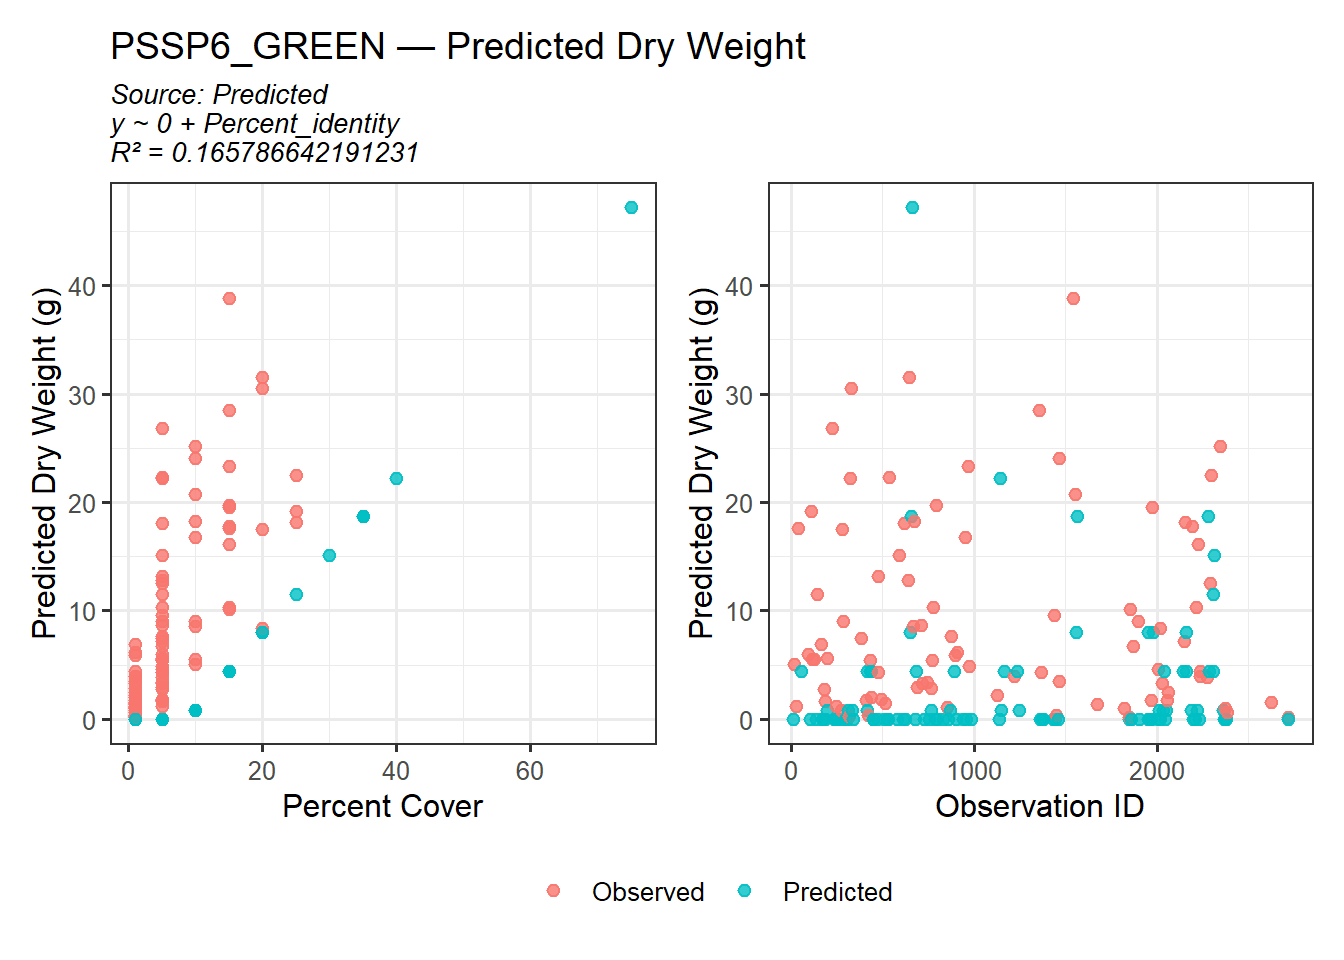
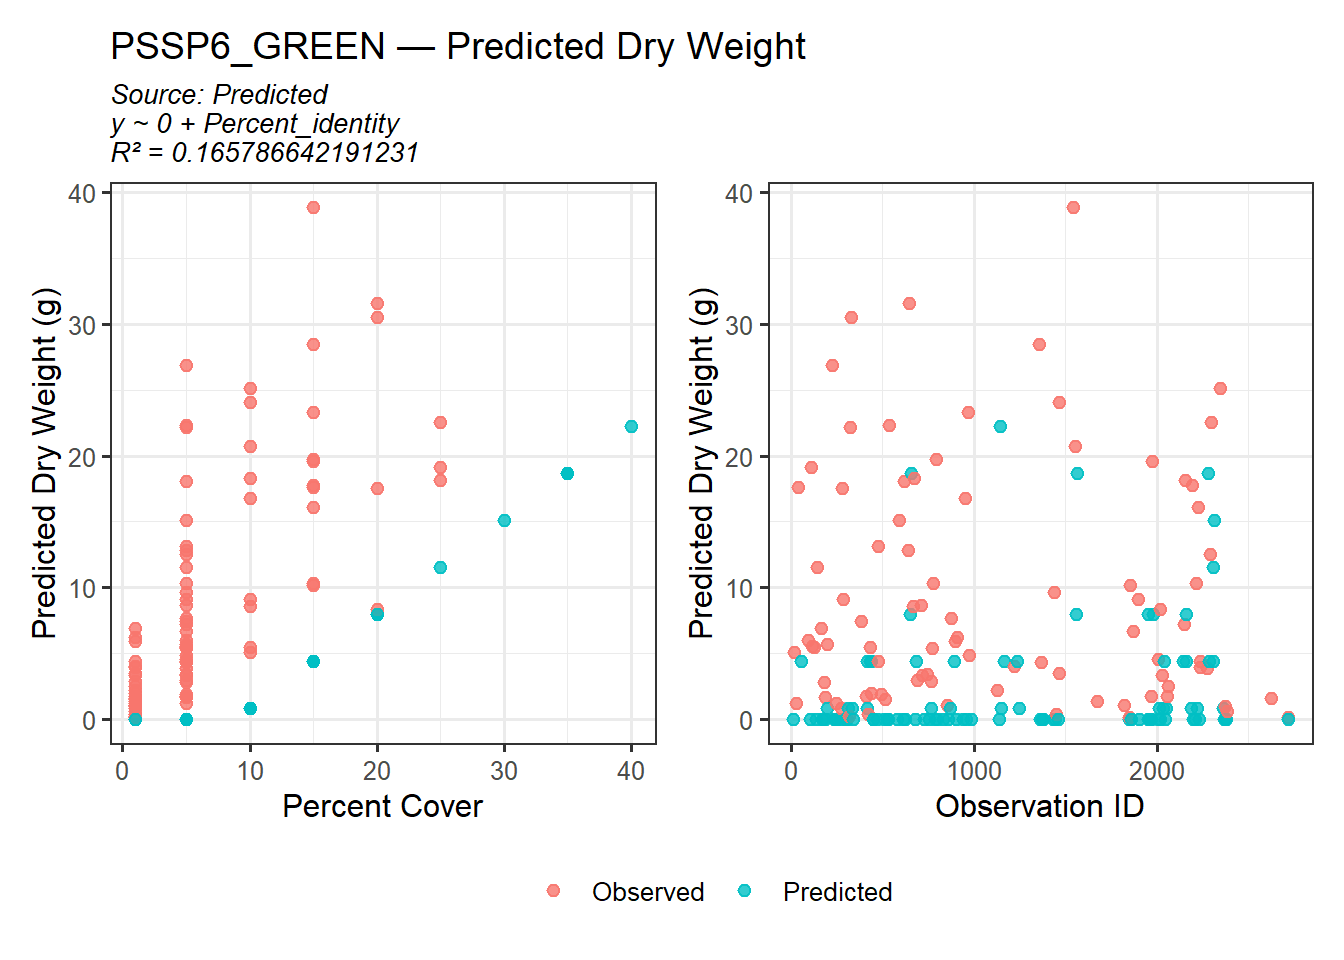
added comments

diff --git a/docs/posts/post-with-code/edited.biomass.predictions.html b/docs/posts/post-with-code/edited.biomass.predictions.html
@@ -216,6 +216,7 @@ pre > code.sourceCode > span > a:first-child::before { text-decoration: underlin
 </div>
 <section id="species" class="level2">
 <h2 class="anchored" data-anchor-id="species">Species</h2>
+<p>ERST4_ENTIRE, POSE_BROWN, PSSP6_GREEN? look better, the rest look the same or worse</p>
 <div class="cell">
 <details class="code-fold">
 <summary>Code</summary>
@@ -228,67 +229,68 @@ pre > code.sourceCode > span > a:first-child::before { text-decoration: underlin
 <span id="cb2-7"><a href="#cb2-7" aria-hidden="true" tabindex="-1"></a><span class="co"># 2. Keep Spp predictions and matching Observed rows</span></span>
 <span id="cb2-8"><a href="#cb2-8" aria-hidden="true" tabindex="-1"></a>spp_predictions_filtered <span class="ot">&lt;-</span> spp <span class="sc">%&gt;%</span></span>
 <span id="cb2-9"><a href="#cb2-9" aria-hidden="true" tabindex="-1"></a>  <span class="fu">mutate</span>(<span class="at">pred_source =</span> <span class="fu">ifelse</span>(pred_source <span class="sc">==</span> <span class="st">"Model_Spp"</span>, <span class="st">"Predicted"</span>, pred_source)) <span class="sc">%&gt;%</span></span>
-<span id="cb2-10"><a href="#cb2-10" aria-hidden="true" tabindex="-1"></a>  <span class="fu">arrange</span>(Spp)</span>
-<span id="cb2-11"><a href="#cb2-11" aria-hidden="true" tabindex="-1"></a></span>
-<span id="cb2-12"><a href="#cb2-12" aria-hidden="true" tabindex="-1"></a>plot_species_predictions <span class="ot">&lt;-</span> <span class="cf">function</span>(species_name, predictions, <span class="at">save_plots =</span> <span class="cn">FALSE</span>) {</span>
-<span id="cb2-13"><a href="#cb2-13" aria-hidden="true" tabindex="-1"></a>  </span>
-<span id="cb2-14"><a href="#cb2-14" aria-hidden="true" tabindex="-1"></a>  <span class="co"># Filter for this species</span></span>
-<span id="cb2-15"><a href="#cb2-15" aria-hidden="true" tabindex="-1"></a>  dat <span class="ot">&lt;-</span> predictions <span class="sc">%&gt;%</span> <span class="fu">filter</span>(Spp <span class="sc">==</span> species_name)</span>
-<span id="cb2-16"><a href="#cb2-16" aria-hidden="true" tabindex="-1"></a>  </span>
-<span id="cb2-17"><a href="#cb2-17" aria-hidden="true" tabindex="-1"></a>  <span class="co"># Prepare annotation text</span></span>
-<span id="cb2-18"><a href="#cb2-18" aria-hidden="true" tabindex="-1"></a>  formula_text <span class="ot">&lt;-</span> <span class="fu">unique</span>(dat<span class="sc">$</span>formula[dat<span class="sc">$</span>pred_source <span class="sc">==</span> <span class="st">"Predicted"</span>])</span>
-<span id="cb2-19"><a href="#cb2-19" aria-hidden="true" tabindex="-1"></a>  r2_text      <span class="ot">&lt;-</span> <span class="fu">unique</span>(dat<span class="sc">$</span>R2[dat<span class="sc">$</span>pred_source <span class="sc">==</span> <span class="st">"Predicted"</span>])</span>
-<span id="cb2-20"><a href="#cb2-20" aria-hidden="true" tabindex="-1"></a>  pred_source_text <span class="ot">&lt;-</span> <span class="fu">unique</span>(dat<span class="sc">$</span>pred_source[dat<span class="sc">$</span>pred_source <span class="sc">==</span> <span class="st">"Predicted"</span>])</span>
-<span id="cb2-21"><a href="#cb2-21" aria-hidden="true" tabindex="-1"></a>  </span>
-<span id="cb2-22"><a href="#cb2-22" aria-hidden="true" tabindex="-1"></a>  annotation_text <span class="ot">&lt;-</span> <span class="cf">if</span> (<span class="fu">length</span>(formula_text) <span class="sc">&gt;</span> <span class="dv">0</span>) {</span>
-<span id="cb2-23"><a href="#cb2-23" aria-hidden="true" tabindex="-1"></a>    <span class="fu">glue</span>(<span class="st">"Source: {pred_source_text}</span><span class="sc">\n</span><span class="st">{formula_text}</span><span class="sc">\n</span><span class="st">R² = {r2_text}"</span>)</span>
-<span id="cb2-24"><a href="#cb2-24" aria-hidden="true" tabindex="-1"></a>  } <span class="cf">else</span> {</span>
-<span id="cb2-25"><a href="#cb2-25" aria-hidden="true" tabindex="-1"></a>    <span class="st">""</span></span>
-<span id="cb2-26"><a href="#cb2-26" aria-hidden="true" tabindex="-1"></a>  }</span>
-<span id="cb2-27"><a href="#cb2-27" aria-hidden="true" tabindex="-1"></a>  </span>
-<span id="cb2-28"><a href="#cb2-28" aria-hidden="true" tabindex="-1"></a>  <span class="co"># Base theme</span></span>
-<span id="cb2-29"><a href="#cb2-29" aria-hidden="true" tabindex="-1"></a>  base_theme <span class="ot">&lt;-</span> <span class="fu">theme_bw</span>(<span class="at">base_size =</span> <span class="dv">12</span>) <span class="sc">+</span></span>
-<span id="cb2-30"><a href="#cb2-30" aria-hidden="true" tabindex="-1"></a>    <span class="fu">theme</span>(</span>
-<span id="cb2-31"><a href="#cb2-31" aria-hidden="true" tabindex="-1"></a>      <span class="at">legend.title =</span> <span class="fu">element_blank</span>(),</span>
-<span id="cb2-32"><a href="#cb2-32" aria-hidden="true" tabindex="-1"></a>      <span class="at">plot.subtitle =</span> <span class="fu">element_text</span>(<span class="at">size =</span> <span class="dv">10</span>, <span class="at">face =</span> <span class="st">"italic"</span>)</span>
-<span id="cb2-33"><a href="#cb2-33" aria-hidden="true" tabindex="-1"></a>    )</span>
-<span id="cb2-34"><a href="#cb2-34" aria-hidden="true" tabindex="-1"></a>  </span>
-<span id="cb2-35"><a href="#cb2-35" aria-hidden="true" tabindex="-1"></a>  <span class="co"># Plot 1: pred_DryWeight vs Percent</span></span>
-<span id="cb2-36"><a href="#cb2-36" aria-hidden="true" tabindex="-1"></a>  p1 <span class="ot">&lt;-</span> <span class="fu">ggplot</span>(dat, <span class="fu">aes</span>(<span class="at">x =</span> Percent, <span class="at">y =</span> pred_DryWeight, <span class="at">color =</span> pred_source)) <span class="sc">+</span></span>
-<span id="cb2-37"><a href="#cb2-37" aria-hidden="true" tabindex="-1"></a>    <span class="fu">geom_point</span>(<span class="at">size =</span> <span class="dv">2</span>, <span class="at">alpha =</span> <span class="fl">0.8</span>) <span class="sc">+</span></span>
-<span id="cb2-38"><a href="#cb2-38" aria-hidden="true" tabindex="-1"></a>    <span class="fu">labs</span>(</span>
-<span id="cb2-39"><a href="#cb2-39" aria-hidden="true" tabindex="-1"></a>      <span class="at">title =</span> <span class="fu">glue</span>(<span class="st">"{species_name} — Predicted Dry Weight"</span>),</span>
-<span id="cb2-40"><a href="#cb2-40" aria-hidden="true" tabindex="-1"></a>      <span class="at">subtitle =</span> annotation_text,</span>
-<span id="cb2-41"><a href="#cb2-41" aria-hidden="true" tabindex="-1"></a>      <span class="at">x =</span> <span class="st">"Percent Cover"</span>,</span>
-<span id="cb2-42"><a href="#cb2-42" aria-hidden="true" tabindex="-1"></a>      <span class="at">y =</span> <span class="st">"Predicted Dry Weight (g)"</span></span>
-<span id="cb2-43"><a href="#cb2-43" aria-hidden="true" tabindex="-1"></a>    ) <span class="sc">+</span></span>
-<span id="cb2-44"><a href="#cb2-44" aria-hidden="true" tabindex="-1"></a>    base_theme</span>
-<span id="cb2-45"><a href="#cb2-45" aria-hidden="true" tabindex="-1"></a>  </span>
-<span id="cb2-46"><a href="#cb2-46" aria-hidden="true" tabindex="-1"></a>  <span class="co"># Plot 2: pred_DryWeight vs ID</span></span>
-<span id="cb2-47"><a href="#cb2-47" aria-hidden="true" tabindex="-1"></a>  p2 <span class="ot">&lt;-</span> <span class="fu">ggplot</span>(dat, <span class="fu">aes</span>(<span class="at">x =</span> ID, <span class="at">y =</span> pred_DryWeight, <span class="at">color =</span> pred_source)) <span class="sc">+</span></span>
-<span id="cb2-48"><a href="#cb2-48" aria-hidden="true" tabindex="-1"></a>    <span class="fu">geom_point</span>(<span class="at">size =</span> <span class="dv">2</span>, <span class="at">alpha =</span> <span class="fl">0.8</span>) <span class="sc">+</span></span>
-<span id="cb2-49"><a href="#cb2-49" aria-hidden="true" tabindex="-1"></a>    <span class="fu">labs</span>(</span>
-<span id="cb2-50"><a href="#cb2-50" aria-hidden="true" tabindex="-1"></a>      <span class="at">x =</span> <span class="st">"Observation ID"</span>,</span>
-<span id="cb2-51"><a href="#cb2-51" aria-hidden="true" tabindex="-1"></a>      <span class="at">y =</span> <span class="st">"Predicted Dry Weight (g)"</span></span>
-<span id="cb2-52"><a href="#cb2-52" aria-hidden="true" tabindex="-1"></a>    ) <span class="sc">+</span></span>
-<span id="cb2-53"><a href="#cb2-53" aria-hidden="true" tabindex="-1"></a>    base_theme</span>
-<span id="cb2-54"><a href="#cb2-54" aria-hidden="true" tabindex="-1"></a>  </span>
-<span id="cb2-55"><a href="#cb2-55" aria-hidden="true" tabindex="-1"></a>  <span class="co"># Combine plots</span></span>
-<span id="cb2-56"><a href="#cb2-56" aria-hidden="true" tabindex="-1"></a>  combined_plot <span class="ot">&lt;-</span> p1 <span class="sc">+</span> p2 <span class="sc">+</span> </span>
-<span id="cb2-57"><a href="#cb2-57" aria-hidden="true" tabindex="-1"></a>    <span class="fu">plot_layout</span>(<span class="at">guides =</span> <span class="st">"collect"</span>) <span class="sc">&amp;</span> </span>
-<span id="cb2-58"><a href="#cb2-58" aria-hidden="true" tabindex="-1"></a>    <span class="fu">theme</span>(<span class="at">legend.position =</span> <span class="st">"bottom"</span>, <span class="at">legend.direction =</span> <span class="st">"horizontal"</span>)</span>
-<span id="cb2-59"><a href="#cb2-59" aria-hidden="true" tabindex="-1"></a>  </span>
-<span id="cb2-60"><a href="#cb2-60" aria-hidden="true" tabindex="-1"></a>  <span class="co"># Save or display</span></span>
-<span id="cb2-61"><a href="#cb2-61" aria-hidden="true" tabindex="-1"></a>  <span class="cf">if</span> (save_plots) {</span>
-<span id="cb2-62"><a href="#cb2-62" aria-hidden="true" tabindex="-1"></a>    <span class="fu">ggsave</span>(<span class="fu">glue</span>(<span class="st">"plots/{species_name}_pred_plot.png"</span>),</span>
-<span id="cb2-63"><a href="#cb2-63" aria-hidden="true" tabindex="-1"></a>           combined_plot, <span class="at">width =</span> <span class="dv">10</span>, <span class="at">height =</span> <span class="dv">5</span>, <span class="at">dpi =</span> <span class="dv">300</span>)</span>
-<span id="cb2-64"><a href="#cb2-64" aria-hidden="true" tabindex="-1"></a>  } <span class="cf">else</span> {</span>
-<span id="cb2-65"><a href="#cb2-65" aria-hidden="true" tabindex="-1"></a>    <span class="fu">print</span>(combined_plot)</span>
-<span id="cb2-66"><a href="#cb2-66" aria-hidden="true" tabindex="-1"></a>  }</span>
-<span id="cb2-67"><a href="#cb2-67" aria-hidden="true" tabindex="-1"></a>}</span>
-<span id="cb2-68"><a href="#cb2-68" aria-hidden="true" tabindex="-1"></a></span>
-<span id="cb2-69"><a href="#cb2-69" aria-hidden="true" tabindex="-1"></a><span class="co"># Run for this subset</span></span>
-<span id="cb2-70"><a href="#cb2-70" aria-hidden="true" tabindex="-1"></a><span class="fu">walk</span>(<span class="fu">unique</span>(spp_predictions_filtered<span class="sc">$</span>Spp), <span class="sc">~</span><span class="fu">plot_species_predictions</span>(.x, spp_predictions_filtered))</span></code><button title="Copy to Clipboard" class="code-copy-button"><i class="bi"></i></button></pre></div>
+<span id="cb2-10"><a href="#cb2-10" aria-hidden="true" tabindex="-1"></a>  <span class="fu">filter</span>(<span class="sc">!</span>ID <span class="sc">%in%</span> <span class="dv">661</span>) <span class="sc">%&gt;%</span> </span>
+<span id="cb2-11"><a href="#cb2-11" aria-hidden="true" tabindex="-1"></a>  <span class="fu">arrange</span>(Spp)</span>
+<span id="cb2-12"><a href="#cb2-12" aria-hidden="true" tabindex="-1"></a></span>
+<span id="cb2-13"><a href="#cb2-13" aria-hidden="true" tabindex="-1"></a>plot_species_predictions <span class="ot">&lt;-</span> <span class="cf">function</span>(species_name, predictions, <span class="at">save_plots =</span> <span class="cn">FALSE</span>) {</span>
+<span id="cb2-14"><a href="#cb2-14" aria-hidden="true" tabindex="-1"></a>  </span>
+<span id="cb2-15"><a href="#cb2-15" aria-hidden="true" tabindex="-1"></a>  <span class="co"># Filter for this species</span></span>
+<span id="cb2-16"><a href="#cb2-16" aria-hidden="true" tabindex="-1"></a>  dat <span class="ot">&lt;-</span> predictions <span class="sc">%&gt;%</span> <span class="fu">filter</span>(Spp <span class="sc">==</span> species_name)</span>
+<span id="cb2-17"><a href="#cb2-17" aria-hidden="true" tabindex="-1"></a>  </span>
+<span id="cb2-18"><a href="#cb2-18" aria-hidden="true" tabindex="-1"></a>  <span class="co"># Prepare annotation text</span></span>
+<span id="cb2-19"><a href="#cb2-19" aria-hidden="true" tabindex="-1"></a>  formula_text <span class="ot">&lt;-</span> <span class="fu">unique</span>(dat<span class="sc">$</span>formula[dat<span class="sc">$</span>pred_source <span class="sc">==</span> <span class="st">"Predicted"</span>])</span>
+<span id="cb2-20"><a href="#cb2-20" aria-hidden="true" tabindex="-1"></a>  r2_text      <span class="ot">&lt;-</span> <span class="fu">unique</span>(dat<span class="sc">$</span>R2[dat<span class="sc">$</span>pred_source <span class="sc">==</span> <span class="st">"Predicted"</span>])</span>
+<span id="cb2-21"><a href="#cb2-21" aria-hidden="true" tabindex="-1"></a>  pred_source_text <span class="ot">&lt;-</span> <span class="fu">unique</span>(dat<span class="sc">$</span>pred_source[dat<span class="sc">$</span>pred_source <span class="sc">==</span> <span class="st">"Predicted"</span>])</span>
+<span id="cb2-22"><a href="#cb2-22" aria-hidden="true" tabindex="-1"></a>  </span>
+<span id="cb2-23"><a href="#cb2-23" aria-hidden="true" tabindex="-1"></a>  annotation_text <span class="ot">&lt;-</span> <span class="cf">if</span> (<span class="fu">length</span>(formula_text) <span class="sc">&gt;</span> <span class="dv">0</span>) {</span>
+<span id="cb2-24"><a href="#cb2-24" aria-hidden="true" tabindex="-1"></a>    <span class="fu">glue</span>(<span class="st">"Source: {pred_source_text}</span><span class="sc">\n</span><span class="st">{formula_text}</span><span class="sc">\n</span><span class="st">R² = {r2_text}"</span>)</span>
+<span id="cb2-25"><a href="#cb2-25" aria-hidden="true" tabindex="-1"></a>  } <span class="cf">else</span> {</span>
+<span id="cb2-26"><a href="#cb2-26" aria-hidden="true" tabindex="-1"></a>    <span class="st">""</span></span>
+<span id="cb2-27"><a href="#cb2-27" aria-hidden="true" tabindex="-1"></a>  }</span>
+<span id="cb2-28"><a href="#cb2-28" aria-hidden="true" tabindex="-1"></a>  </span>
+<span id="cb2-29"><a href="#cb2-29" aria-hidden="true" tabindex="-1"></a>  <span class="co"># Base theme</span></span>
+<span id="cb2-30"><a href="#cb2-30" aria-hidden="true" tabindex="-1"></a>  base_theme <span class="ot">&lt;-</span> <span class="fu">theme_bw</span>(<span class="at">base_size =</span> <span class="dv">12</span>) <span class="sc">+</span></span>
+<span id="cb2-31"><a href="#cb2-31" aria-hidden="true" tabindex="-1"></a>    <span class="fu">theme</span>(</span>
+<span id="cb2-32"><a href="#cb2-32" aria-hidden="true" tabindex="-1"></a>      <span class="at">legend.title =</span> <span class="fu">element_blank</span>(),</span>
+<span id="cb2-33"><a href="#cb2-33" aria-hidden="true" tabindex="-1"></a>      <span class="at">plot.subtitle =</span> <span class="fu">element_text</span>(<span class="at">size =</span> <span class="dv">10</span>, <span class="at">face =</span> <span class="st">"italic"</span>)</span>
+<span id="cb2-34"><a href="#cb2-34" aria-hidden="true" tabindex="-1"></a>    )</span>
+<span id="cb2-35"><a href="#cb2-35" aria-hidden="true" tabindex="-1"></a>  </span>
+<span id="cb2-36"><a href="#cb2-36" aria-hidden="true" tabindex="-1"></a>  <span class="co"># Plot 1: pred_DryWeight vs Percent</span></span>
+<span id="cb2-37"><a href="#cb2-37" aria-hidden="true" tabindex="-1"></a>  p1 <span class="ot">&lt;-</span> <span class="fu">ggplot</span>(dat, <span class="fu">aes</span>(<span class="at">x =</span> Percent, <span class="at">y =</span> pred_DryWeight, <span class="at">color =</span> pred_source)) <span class="sc">+</span></span>
+<span id="cb2-38"><a href="#cb2-38" aria-hidden="true" tabindex="-1"></a>    <span class="fu">geom_point</span>(<span class="at">size =</span> <span class="dv">2</span>, <span class="at">alpha =</span> <span class="fl">0.8</span>) <span class="sc">+</span></span>
+<span id="cb2-39"><a href="#cb2-39" aria-hidden="true" tabindex="-1"></a>    <span class="fu">labs</span>(</span>
+<span id="cb2-40"><a href="#cb2-40" aria-hidden="true" tabindex="-1"></a>      <span class="at">title =</span> <span class="fu">glue</span>(<span class="st">"{species_name} — Predicted Dry Weight"</span>),</span>
+<span id="cb2-41"><a href="#cb2-41" aria-hidden="true" tabindex="-1"></a>      <span class="at">subtitle =</span> annotation_text,</span>
+<span id="cb2-42"><a href="#cb2-42" aria-hidden="true" tabindex="-1"></a>      <span class="at">x =</span> <span class="st">"Percent Cover"</span>,</span>
+<span id="cb2-43"><a href="#cb2-43" aria-hidden="true" tabindex="-1"></a>      <span class="at">y =</span> <span class="st">"Predicted Dry Weight (g)"</span></span>
+<span id="cb2-44"><a href="#cb2-44" aria-hidden="true" tabindex="-1"></a>    ) <span class="sc">+</span></span>
+<span id="cb2-45"><a href="#cb2-45" aria-hidden="true" tabindex="-1"></a>    base_theme</span>
+<span id="cb2-46"><a href="#cb2-46" aria-hidden="true" tabindex="-1"></a>  </span>
+<span id="cb2-47"><a href="#cb2-47" aria-hidden="true" tabindex="-1"></a>  <span class="co"># Plot 2: pred_DryWeight vs ID</span></span>
+<span id="cb2-48"><a href="#cb2-48" aria-hidden="true" tabindex="-1"></a>  p2 <span class="ot">&lt;-</span> <span class="fu">ggplot</span>(dat, <span class="fu">aes</span>(<span class="at">x =</span> ID, <span class="at">y =</span> pred_DryWeight, <span class="at">color =</span> pred_source)) <span class="sc">+</span></span>
+<span id="cb2-49"><a href="#cb2-49" aria-hidden="true" tabindex="-1"></a>    <span class="fu">geom_point</span>(<span class="at">size =</span> <span class="dv">2</span>, <span class="at">alpha =</span> <span class="fl">0.8</span>) <span class="sc">+</span></span>
+<span id="cb2-50"><a href="#cb2-50" aria-hidden="true" tabindex="-1"></a>    <span class="fu">labs</span>(</span>
+<span id="cb2-51"><a href="#cb2-51" aria-hidden="true" tabindex="-1"></a>      <span class="at">x =</span> <span class="st">"Observation ID"</span>,</span>
+<span id="cb2-52"><a href="#cb2-52" aria-hidden="true" tabindex="-1"></a>      <span class="at">y =</span> <span class="st">"Predicted Dry Weight (g)"</span></span>
+<span id="cb2-53"><a href="#cb2-53" aria-hidden="true" tabindex="-1"></a>    ) <span class="sc">+</span></span>
+<span id="cb2-54"><a href="#cb2-54" aria-hidden="true" tabindex="-1"></a>    base_theme</span>
+<span id="cb2-55"><a href="#cb2-55" aria-hidden="true" tabindex="-1"></a>  </span>
+<span id="cb2-56"><a href="#cb2-56" aria-hidden="true" tabindex="-1"></a>  <span class="co"># Combine plots</span></span>
+<span id="cb2-57"><a href="#cb2-57" aria-hidden="true" tabindex="-1"></a>  combined_plot <span class="ot">&lt;-</span> p1 <span class="sc">+</span> p2 <span class="sc">+</span> </span>
+<span id="cb2-58"><a href="#cb2-58" aria-hidden="true" tabindex="-1"></a>    <span class="fu">plot_layout</span>(<span class="at">guides =</span> <span class="st">"collect"</span>) <span class="sc">&amp;</span> </span>
+<span id="cb2-59"><a href="#cb2-59" aria-hidden="true" tabindex="-1"></a>    <span class="fu">theme</span>(<span class="at">legend.position =</span> <span class="st">"bottom"</span>, <span class="at">legend.direction =</span> <span class="st">"horizontal"</span>)</span>
+<span id="cb2-60"><a href="#cb2-60" aria-hidden="true" tabindex="-1"></a>  </span>
+<span id="cb2-61"><a href="#cb2-61" aria-hidden="true" tabindex="-1"></a>  <span class="co"># Save or display</span></span>
+<span id="cb2-62"><a href="#cb2-62" aria-hidden="true" tabindex="-1"></a>  <span class="cf">if</span> (save_plots) {</span>
+<span id="cb2-63"><a href="#cb2-63" aria-hidden="true" tabindex="-1"></a>    <span class="fu">ggsave</span>(<span class="fu">glue</span>(<span class="st">"plots/{species_name}_pred_plot.png"</span>),</span>
+<span id="cb2-64"><a href="#cb2-64" aria-hidden="true" tabindex="-1"></a>           combined_plot, <span class="at">width =</span> <span class="dv">10</span>, <span class="at">height =</span> <span class="dv">5</span>, <span class="at">dpi =</span> <span class="dv">300</span>)</span>
+<span id="cb2-65"><a href="#cb2-65" aria-hidden="true" tabindex="-1"></a>  } <span class="cf">else</span> {</span>
+<span id="cb2-66"><a href="#cb2-66" aria-hidden="true" tabindex="-1"></a>    <span class="fu">print</span>(combined_plot)</span>
+<span id="cb2-67"><a href="#cb2-67" aria-hidden="true" tabindex="-1"></a>  }</span>
+<span id="cb2-68"><a href="#cb2-68" aria-hidden="true" tabindex="-1"></a>}</span>
+<span id="cb2-69"><a href="#cb2-69" aria-hidden="true" tabindex="-1"></a></span>
+<span id="cb2-70"><a href="#cb2-70" aria-hidden="true" tabindex="-1"></a><span class="co"># Run for this subset</span></span>
+<span id="cb2-71"><a href="#cb2-71" aria-hidden="true" tabindex="-1"></a><span class="fu">walk</span>(<span class="fu">unique</span>(spp_predictions_filtered<span class="sc">$</span>Spp), <span class="sc">~</span><span class="fu">plot_species_predictions</span>(.x, spp_predictions_filtered))</span></code><button title="Copy to Clipboard" class="code-copy-button"><i class="bi"></i></button></pre></div>
 </details>
 <div class="cell-output-display">
 <div>
@@ -336,6 +338,7 @@ pre > code.sourceCode > span > a:first-child::before { text-decoration: underlin
 </section>
 <section id="genus" class="level2">
 <h2 class="anchored" data-anchor-id="genus">Genus</h2>
+<p>POA, PSEUDOGENERIA, TAENATHARIUM look better</p>
 <div class="cell">
 <details class="code-fold">
 <summary>Code</summary>
@@ -435,6 +438,7 @@ pre > code.sourceCode > span > a:first-child::before { text-decoration: underlin
 </section>
 <section id="functional-group" class="level2">
 <h2 class="anchored" data-anchor-id="functional-group">Functional Group</h2>
+<p>Removing the outliers did not change these at all</p>
 <div class="cell">
 <details class="code-fold">
 <summary>Code</summary>

diff --git a/docs/index.html b/docs/index.html
@@ -206,7 +206,7 @@ window.Quarto = {
 
 <div class="quarto-listing quarto-listing-container-default" id="listing-listing">
 <div class="list quarto-listing-default">
-<div class="quarto-post image-right" data-index="0" data-listing-date-sort="1763625600000" data-listing-file-modified-sort="1763688100217" data-listing-date-modified-sort="NaN" data-listing-reading-time-sort="7" data-listing-word-count-sort="1222">
+<div class="quarto-post image-right" data-index="0" data-listing-date-sort="1763625600000" data-listing-file-modified-sort="1763757078710" data-listing-date-modified-sort="NaN" data-listing-reading-time-sort="7" data-listing-word-count-sort="1251">
 <div class="thumbnail"><a href="./posts/post-with-code/edited.biomass.predictions.html" class="no-external">
 
 <p class="card-img-top"><img src="posts\post-with-code\edited.biomass.predictions_files\figure-html\unnamed-chunk-2-1.png"  class="thumbnail-image card-img"/></p>
@@ -220,13 +220,7 @@ window.Quarto = {
 <a href="./posts/post-with-code/edited.biomass.predictions.html" class="no-external"></a>
 </div>
 <div class="delink listing-description"><a href="./posts/post-with-code/edited.biomass.predictions.html" class="no-external">
-
-<details class="code-fold">
-<summary>Code</summary>
-<div class="sourceCode cell-code" id="cb1"><pre class="sourceCode r code-with-copy"><code class="sourceCode r"><span id="cb1-1"><span class="fu">library</span>(tidyverse)</span>
-<span id="cb1-2"><span class="fu">library</span>(readxl)</span>
-<span id="cb1-3">s <span class="ot">&lt;-</span> <span class="st">"C:/Users/Alexis Means/Documents/Project/Nutrition Sampling/R code/biomass/edited.spp.pred.xlsx"</span></span>
-<span id="cb1-4">g <span class="ot">&lt;-</span> <span class="st">"C:/Users/Alexis…</span></span><span id="cb1-5"><span class="ot"></span><span class="st"></span></span><span id="cb1-6"></span><span id="cb1-7"><span class="ot"></span><span class="fu"></span><span class="st"></span></span><span id="cb1-8"><span class="ot"></span><span class="fu"></span><span class="st"></span></span><span id="cb1-9"><span class="ot"></span><span class="fu"></span><span class="st"></span></span></code></pre></div></details>
+ERST4_ENTIRE, POSE_BROWN, PSSP6_GREEN? look better, the rest look the same or worse
 </a></div>
 </div>
 <div class="metadata">
